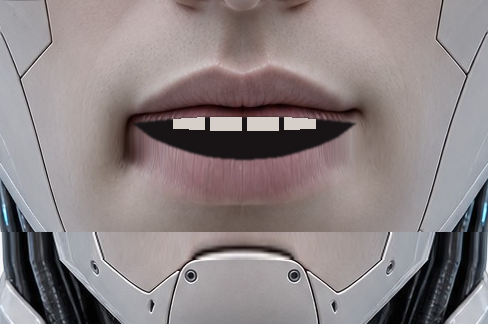
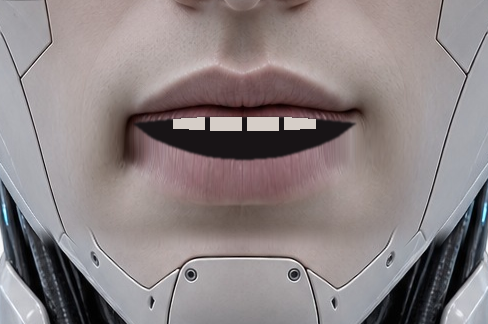
Fase 4: atenua el desplazamiento de mandibula hacia los bordes del recorte
El bloque rigido de la placa se desplazaba con el mismo ancho completo
del recorte, pero las placas metalicas de los costados de la cara
siguen mas alla de ese recorte, sin moverse - la costura entre "adentro
del recorte, desplazado" y "afuera, quieto" descontinuaba esas lineas
del diseño justo en el borde izquierdo/derecho del recorte.

_shift_plate_down() ahora usa un remap (no una copia de filas): el
desplazamiento se atenua a CERO exactamente en los bordes del recorte
(para calzar con el mundo de afuera) y es maximo en el centro, donde
esta el menton; verticalmente se activa con un smoothstep alrededor de
PLATE_SEAM_FRAC en vez de un corte duro.

Verificado pegando cada boca generada sobre la foto completa en su
posicion real (no solo mirando el recorte aislado): las lineas de las
placas laterales quedan continuas en cerrado y abierto. Tambien
probado en Chrome con conversacion real, zoom a ambos bordes del
recorte con la boca forzada a "open" - sin discontinuidad, sin errores
en consola.

Claude-Session: https://claude.ai/code/session_01E3EALaTiNzLizZiiaPsovU

Changed region(s): [[0.0, 0.7099, 1.0, 1.0]]

diff --git a/core/face_gen.py b/core/face_gen.py
@@ -205,34 +205,44 @@ def _paint_lid_line(img: np.ndarray, left_x: float, right_x: float, y: float) ->
 
 
 def _shift_plate_down(crop: np.ndarray, warped: np.ndarray, plate_y: int, shift_px: int) -> np.ndarray:
-    """Desliza en bloque (sin deformarla) la placa mecanica del menton
-    hacia abajo, tomando los pixeles originales sin warp - para simular
-    la caida de mandibula sin alabear su geometria rigida (bordes
-    rectos, tornillos). Deformar esa zona con el mismo TPS de los labios
-    (como se hizo antes) la distorsionaba de forma inestable y se notaba
-    como una linea/artefacto en el cuello, sobre todo con la boca bien
-    abierta."""
+    """Baja la placa/menton con un remap suave, sin deformar su
+    geometria rigida (bordes rectos, tornillos) y sin cortar de borde a
+    borde del recorte.
+
+    Primera version: desplazaba TODO el ancho del recorte por igual (un
+    corte recto). Pero las placas metalicas de los lados de la cara
+    siguen MAS ALLA del recorte, sin moverse - la costura entre "adentro
+    del recorte, desplazado" y "afuera, quieto" se notaba como una linea
+    que descontinuaba esas lineas del diseño justo en el borde del
+    recorte. Ahora el desplazamiento se atenua horizontalmente hasta
+    CERO exactamente en los bordes del recorte (para calzar con el
+    mundo de afuera, que no se mueve) y es maximo en el centro, donde
+    esta el menton; verticalmente se activa de forma gradual alrededor
+    de PLATE_SEAM_FRAC en vez de un corte duro."""
     h, w = crop.shape[:2]
     plate_y = max(1, min(plate_y, h - 1))
-    shift_px = max(0, min(shift_px, h - plate_y - 1))
     if shift_px <= 0:
         return warped
 
-    out = warped.copy()
-    out[plate_y + shift_px :, :] = crop[plate_y : h - shift_px, :]
+    ramp = 14
+    y_top = max(0, plate_y - ramp)
+    y_bottom = min(h, plate_y + ramp)
 
-    # El hueco que deja el desplazamiento se rellena ESTIRANDO (no
-    # repitiendo) una ventana de pixeles originales alrededor de la
-    # costura - repetir una sola fila deja un salto duro de textura
-    # justo donde empieza/termina el relleno.
-    window = 4
-    y0 = max(0, plate_y - window)
-    y1 = min(h, plate_y + window)
-    stretched = cv2.resize(
-        crop[y0:y1, :], (w, (y1 - y0) + shift_px), interpolation=cv2.INTER_LINEAR
+    x_weight = np.sin(np.linspace(0.0, np.pi, w, dtype=np.float32))  # 0 en los bordes, 1 en el centro
+    y_ramp = np.clip((np.arange(h, dtype=np.float32) - y_top) / max(y_bottom - y_top, 1), 0.0, 1.0)
+    y_ramp = y_ramp * y_ramp * (3 - 2 * y_ramp)  # smoothstep, sin quiebre en los extremos
+
+    dy = shift_px * y_ramp[:, None] * x_weight[None, :]
+    map_x, map_y = np.meshgrid(
+        np.arange(w, dtype=np.float32), np.arange(h, dtype=np.float32)
     )
-    out[y0 : y0 + stretched.shape[0], :] = stretched
-    return out
+    shifted = cv2.remap(
+        crop, map_x, map_y - dy, interpolation=cv2.INTER_LINEAR, borderMode=cv2.BORDER_REPLICATE
+    )
+
+    alpha = y_ramp[:, None, None]
+    blended = warped.astype(np.float32) * (1 - alpha) + shifted.astype(np.float32) * alpha
+    return blended.astype(np.uint8)
 
 
 def _tps_warp(crop: np.ndarray, src: np.ndarray, dst: np.ndarray) -> np.ndarray:
